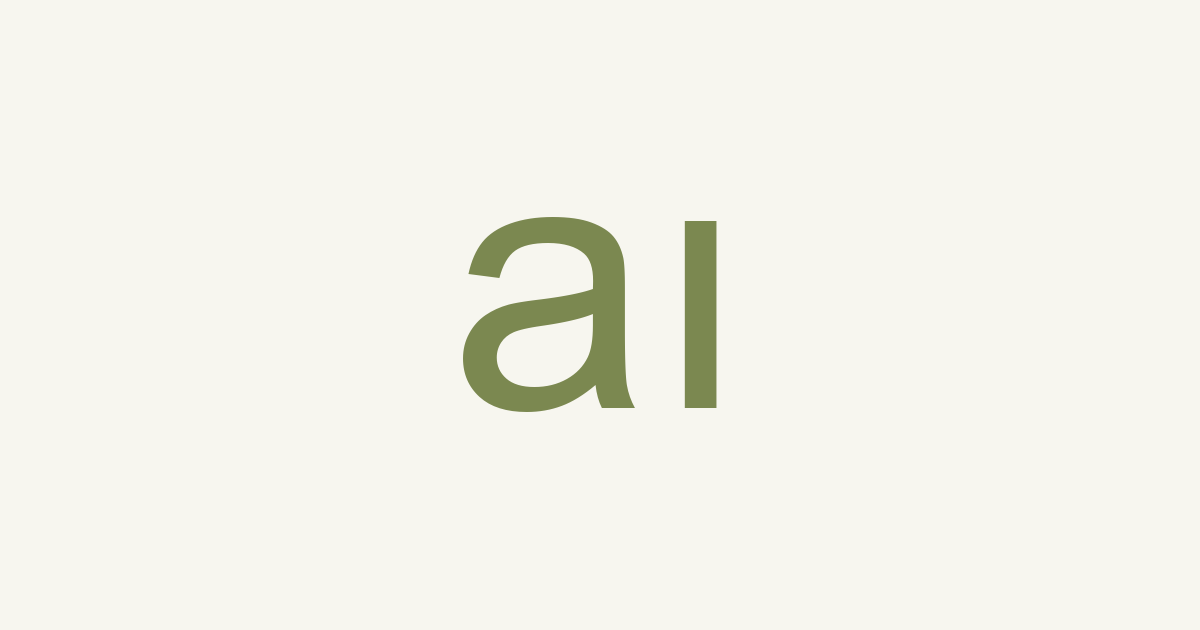
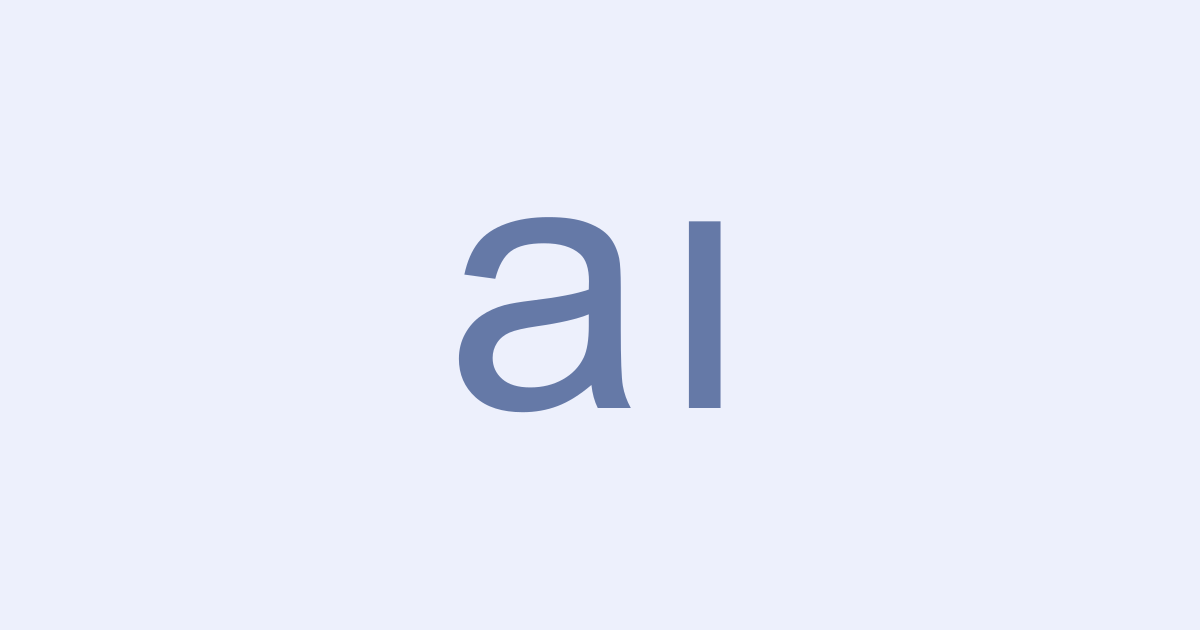
Match tab and sharing previews to periwinkle palette (#65)

Changed region(s): [[0.37, 0.3317, 0.5242, 0.6635], [0.555, 0.3317, 0.6167, 0.6635]]

diff --git a/scripts/build_site.py b/scripts/build_site.py
@@ -68,6 +68,11 @@ def render_contribution(source):
     return content + '<script id="contribution-copy" type="application/json">' + data + '</script>'
 
 
+def share_preview_filename(source):
+    digest = hashlib.sha256((source / 'share-preview.png').read_bytes()).hexdigest()[:10]
+    return f'share-preview-{digest}.png'
+
+
 def page(title, content, prefix='./', home=False, source=SOURCE, path=''):
     browser_title = 'Has AI Improved Lives' if home else f'{title} — AI Improves Lives'
     def asset(name):
@@ -76,6 +81,7 @@ def page(title, content, prefix='./', home=False, source=SOURCE, path=''):
     impact_current = ' aria-current="page"' if home else ''
     contribute_current = ' aria-current="page"' if title == 'Contribute' else ''
     contribute_script = f"<script defer src=\"{asset('contribute.js')}\"></script>" if title == 'Contribute' else ''
+    share_image = 'https://aiimproveslives.com/' + share_preview_filename(source)
     footer = '' if title in ('About', 'Contribute') else f'''<footer><div class="share-control footer-share"><button type="button" class="footer-share-button" data-copy-url="{esc('https://aiimproveslives.com/' + path)}" hidden>Know someone who’d find this inspiring? Share it!</button><span class="share-toast" role="status" hidden></span><label class="share-fallback" hidden>Copy this link<input type="url" readonly aria-label="Page link"></label></div></footer>'''
     return f'''<!doctype html>
 <html lang="en"><head><meta charset="utf-8"><meta name="viewport" content="width=device-width, initial-scale=1">
@@ -84,12 +90,12 @@ def page(title, content, prefix='./', home=False, source=SOURCE, path=''):
 <meta property="og:type" content="website">
 <link rel="canonical" href="{esc('https://aiimproveslives.com/' + path)}">
 <meta property="og:url" content="{esc('https://aiimproveslives.com/' + path)}">
-<meta property="og:image" content="https://aiimproveslives.com/share-preview.png">
+<meta property="og:image" content="{share_image}">
 <meta property="og:image:width" content="1200"><meta property="og:image:height" content="630">
 <meta property="og:image:alt" content="AI Improves Lives dotless aı logo">
 <meta name="twitter:card" content="summary_large_image">
 <meta name="twitter:title" content="{esc(browser_title)}">
-<meta name="twitter:image" content="https://aiimproveslives.com/share-preview.png"><meta name="theme-color" content="#edf0fc">
+<meta name="twitter:image" content="{share_image}"><meta name="theme-color" content="#edf0fc">
 <link rel="icon" type="image/svg+xml" href="{asset('favicon.svg')}">
 <link rel="stylesheet" href="{asset('styles.css')}"><script defer src="{asset('site.js')}"></script><script defer src="{asset('voting.js')}"></script>{contribute_script}</head>
 <body data-base="{prefix}" class="site-design"><a class="skip" href="#main">Skip to content</a>
@@ -159,6 +165,7 @@ def build(root=ROOT, output=Path('dist'), source=SOURCE, ranking=None):
     build_catalog(root, output / 'catalog.json')
     for filename in ['styles.css', 'site.js', 'voting.js', 'contribute.js', 'voting-config.json', 'share-preview.png', 'favicon.svg']:
         shutil.copyfile(source / filename, output / filename)
+    shutil.copyfile(source / 'share-preview.png', output / share_preview_filename(source))
     shutil.copytree(source / 'vendor', output / 'vendor', dirs_exist_ok=True)
     (output / '.nojekyll').touch()
     ordered = sorted(impacts.values(), key=lambda r: (r['occurred_by'], r['id']), reverse=True)
